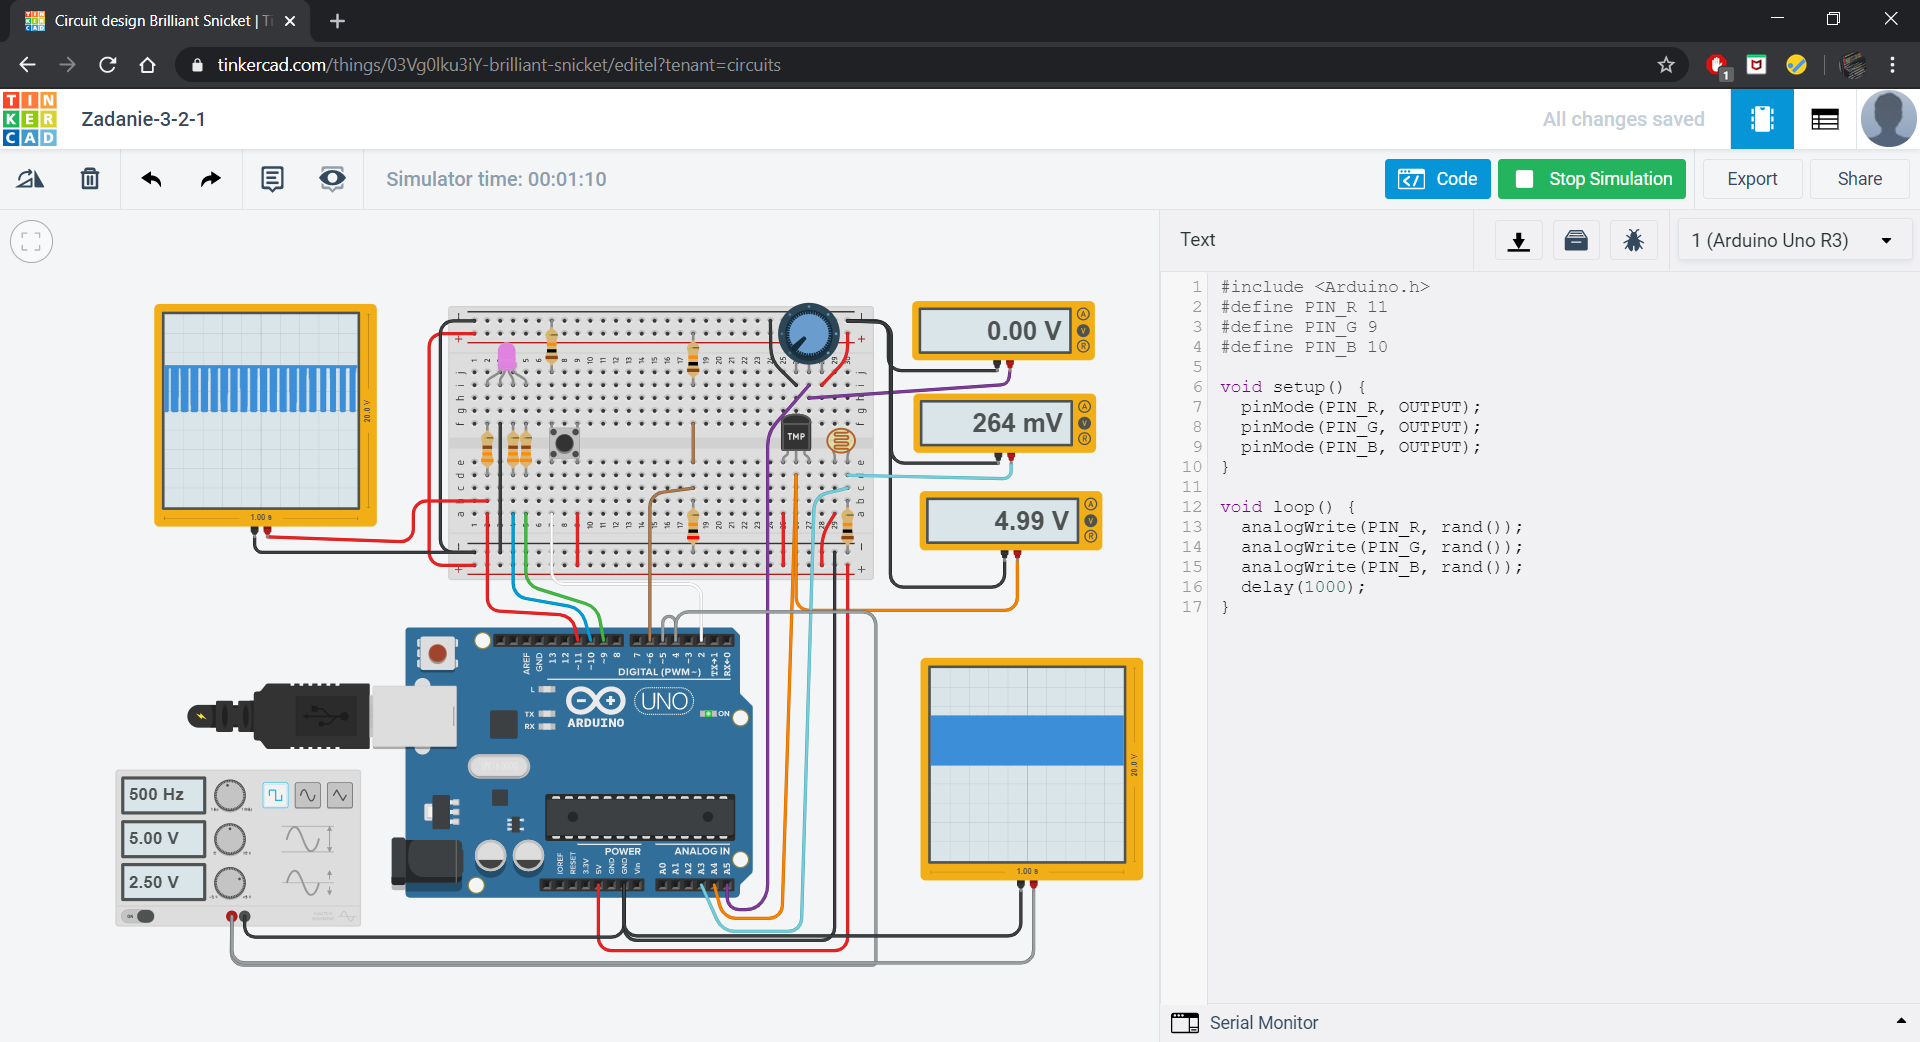
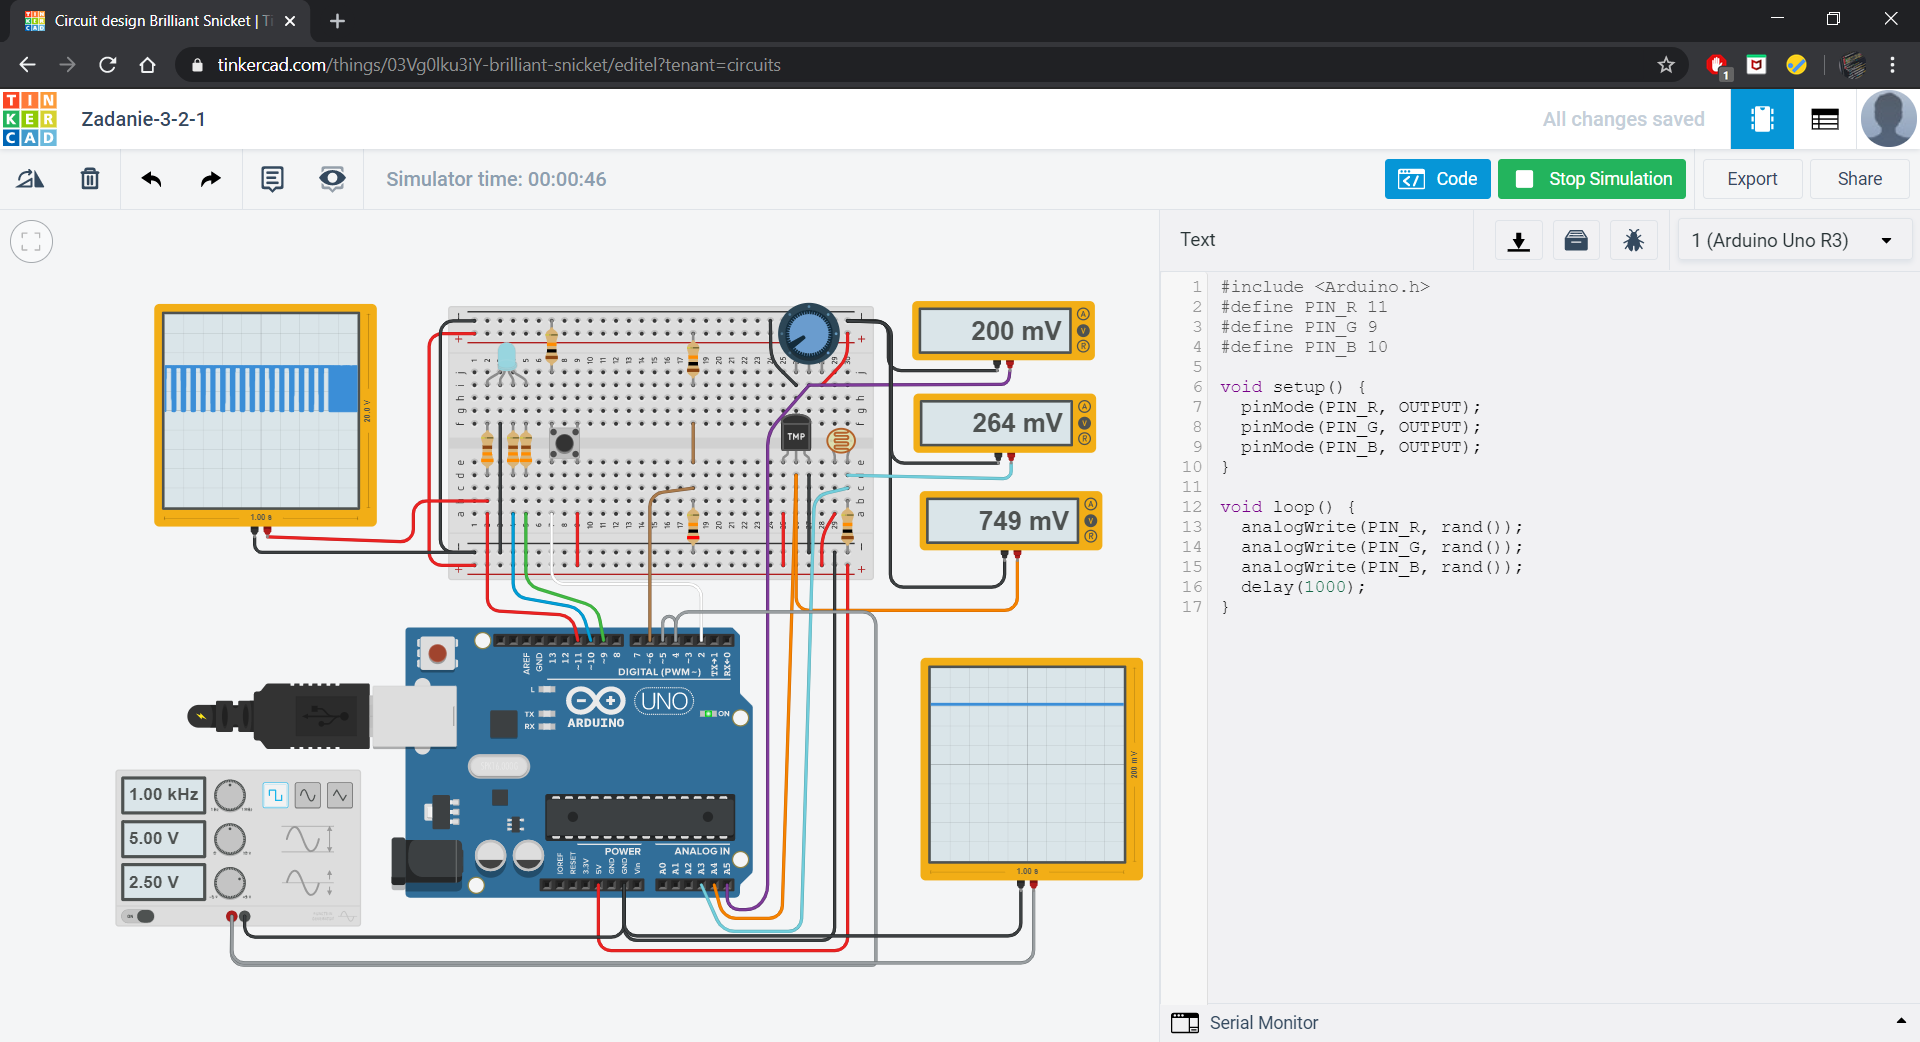
Wykonano zadanie 3.2.2 – T/C0 reg

diff --git a/Zadanie-3-2/Zadanie-3-2/src/main.cpp b/Zadanie-3-2/Zadanie-3-2/src/main.cpp
@@ -1,17 +1,19 @@
-#include <Arduino.h>
-#define PIN_R 11
-#define PIN_G 9
-#define PIN_B 10
+#include <avr/io.h>
+#include <avr/interrupt.h>
 
-void setup() {
-  pinMode(PIN_R, OUTPUT);
-  pinMode(PIN_G, OUTPUT);
-  pinMode(PIN_B, OUTPUT);
+int main(void) {
+  DDRC |= (1 << PORTC1);
+  DDRD &= ~(1 << DDD4);
+  PORTD |= (1 << PORTD4);
+  TIMSK0 |= (1 << TOIE0);
+  TCCR0B |= (1 << CS02) | (1 << CS01) | (1 << CS00);
+  sei();
+  while (1){
+    if(TCNT0 > 64)
+      PORTC |= (1 << PORTC1);
+  }
 }
 
-void loop() {
-  analogWrite(PIN_R, rand());
-  analogWrite(PIN_G, rand());
-  analogWrite(PIN_B, rand());
-  delay(1000);
+ISR(TIMER0_OVF_vect) {
+  PORTC &= ~(1 << PORTC1);
 }
